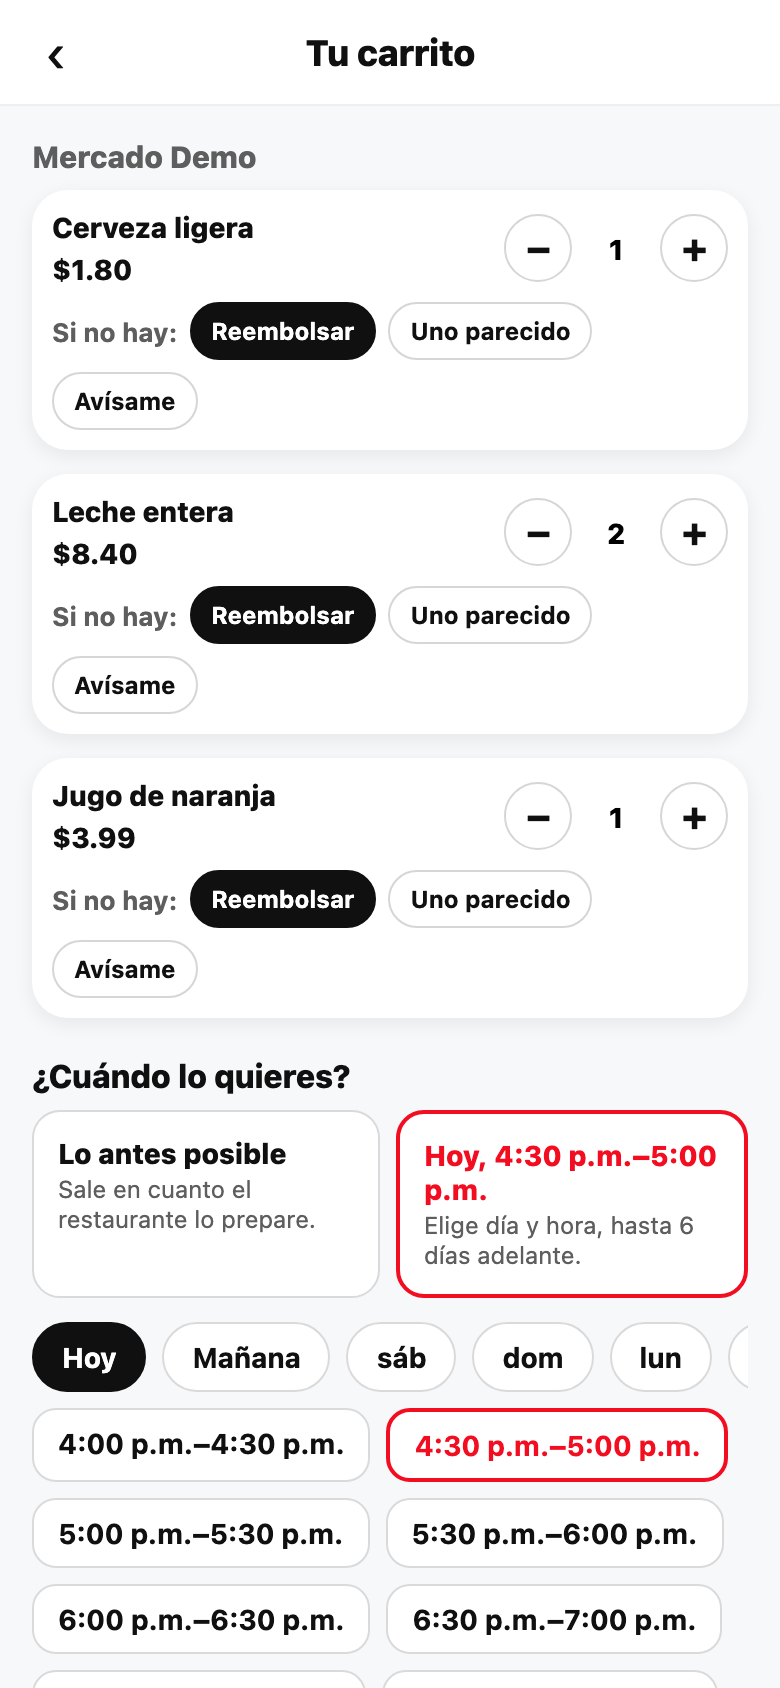
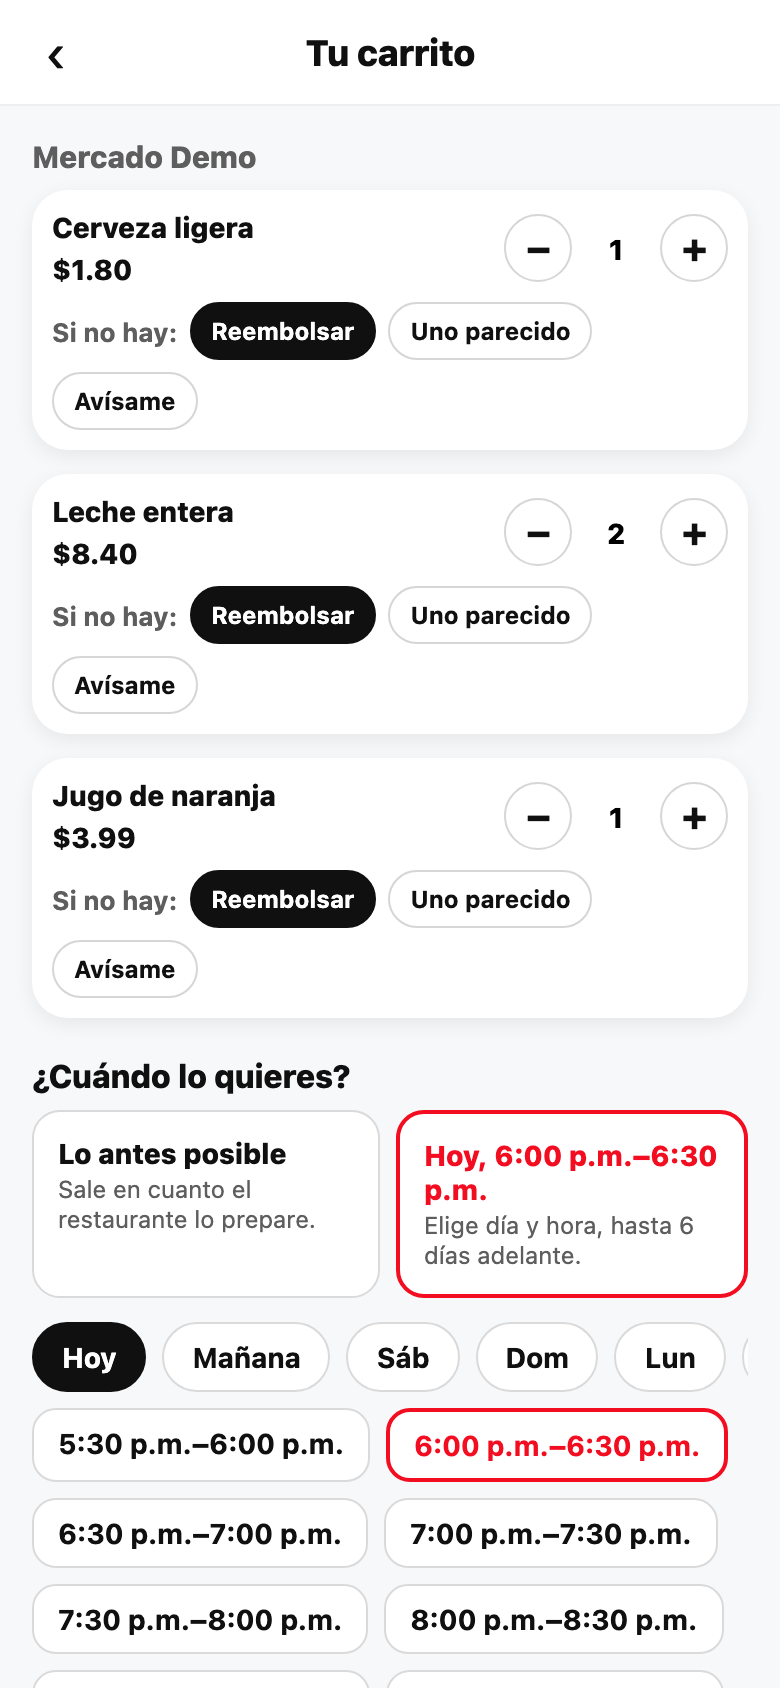
docs: captura real de «Pedir otra vez» en el inicio — todos los países

diff --git a/apps/panel/src/sitio/docs/guias.ts b/apps/panel/src/sitio/docs/guias.ts
@@ -115,6 +115,11 @@ const es: SeccionDocs[] = [
         ],
         capturas: [
           {
+            src: '/docs/cliente-pedir-otra-vez-es.webp',
+            alt: 'El inicio de la app de Divoox con la fila «Pedir otra vez» y el último pedido de una tienda.',
+            pie: 'En el inicio, «Pedir otra vez» te deja repetir un pedido con un toque.',
+          },
+          {
             src: '/docs/recorrido-cliente-ticket-es.webp',
             alt: 'El recibo de un pedido en la app de Divoox.',
             pie: 'El recibo de tu pedido, siempre a mano.',
@@ -3212,6 +3217,11 @@ const en: SeccionDocs[] = [
           'If you had another cart half done, we ask before replacing it.',
         ],
         capturas: [
+          {
+            src: '/docs/cliente-pedir-otra-vez-en.webp',
+            alt: 'The Divoox app home with the “Order again” row and the last order from a store.',
+            pie: 'On the home screen, “Order again” repeats an order with one tap.',
+          },
           {
             src: '/docs/recorrido-cliente-ticket-en.webp',
             alt: 'A Divoox order receipt in the app.',

diff --git a/FILA.md b/FILA.md
@@ -32,7 +32,7 @@
 - [x] Rendimiento del restaurante (ventas por hora y día, ticket promedio, tiempo de preparación real contra prometido, clientes nuevos y recurrentes) en el panel y la app del restaurante, con Docs. Todos los países.
 - [x] Roles internos del superadmin (soporte, finanzas, solo lectura) con registro de quién hizo qué. Todos los países.
 
-- [ ] Comprobar en el sitio de pruebas la segunda tanda (Equipo interno, Informes, tickets, reseñas sugeridas, avisos, fila «Pedir otra vez» del inicio) en cuanto llegue; la primera ya quedó comprobada el 29 oct (API y captura del carrito). Antes decía: comprobar en el sitio de pruebas, con el navegador, todo lo publicado hoy (carrito con «Programar», «Pedir otra vez», Cancelaciones, Ciudades en la web, Equipo interno, rendimiento del restaurante) y sacar las capturas reales para Docs y la web. Todos los países.
+- [x] (29 oct, 20:13: once comprobaciones en verde con scripts/staging/comprobar-29oct.mjs) Comprobar en el sitio de pruebas la segunda tanda (Equipo interno, Informes, tickets, reseñas sugeridas, avisos, fila «Pedir otra vez» del inicio) en cuanto llegue; la primera ya quedó comprobada el 29 oct (API y captura del carrito). Antes decía: comprobar en el sitio de pruebas, con el navegador, todo lo publicado hoy (carrito con «Programar», «Pedir otra vez», Cancelaciones, Ciudades en la web, Equipo interno, rendimiento del restaurante) y sacar las capturas reales para Docs y la web. Todos los países.
 - [x] Informes del superadmin por rango de fechas (pedidos, ventas, comisiones, cancelados, por ciudad) con exportación a CSV. Todos los países.
 - [x] Tickets de soporte con prioridad, asignación a una persona del equipo y respuestas guardadas (plantillas). Todos los países.
 - [x] «Pedir otra vez» en el inicio del cliente: fila con los últimos comercios donde pidió, como DoorDash. Todos los países.
